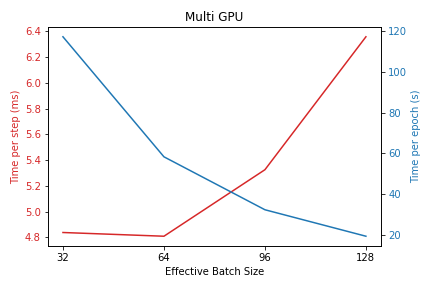
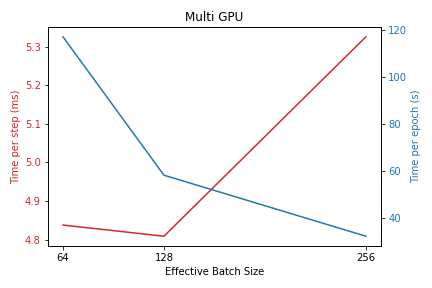
Corrected graph generation scripts for training performance

diff --git a/stock_predict/performance_testing/training/make_train_perf_plots.py b/stock_predict/performance_testing/training/make_train_perf_plots.py
@@ -21,11 +21,11 @@ plt.figure()
 plt.plot(n_nodes, speedup, label='Actual speedup')
 plt.plot(n_nodes, n_nodes, label='Theoretical speedup', linestyle='--')
 plt.title('Speedup with increasing nodes')
-plt.ylabel('speedup')
+plt.ylabel('Speedup')
 plt.xticks(n_nodes)
-plt.xlabel('number of nodes')
+plt.xlabel('Number of Nodes')
 plt.legend()
-plt.savefig('multi_node_speedup.png')
+plt.savefig('speedup_multi_node.png')
 
 
 # Plot 2: Multi-GPU speedup
@@ -39,15 +39,52 @@ speedup = [1, np.mean(multi_node['1']['time_per_epoch'])/ np.mean(multi_gpu['bs_
 plt.figure()
 plt.plot(n_gpus, speedup, label='Actual speedup')
 plt.plot(n_gpus, n_gpus, label='Theoretical speedup', linestyle='--')
-plt.title('Speedup with increasing GPUs in a single node')
+plt.title('Speedup with Increasing GPUs in a Single Node')
 plt.ylabel('Speedup')
 plt.xticks(n_gpus)
 plt.xlabel('Number of GPUs')
 plt.legend()
-plt.savefig('multi_gpu_speedup.png')
+plt.savefig('speedup_multi_gpu.png')
+
+# Plot 3: Batch size (multi node)
+
+with open('multi_node.txt') as json_file:
+    multi_node = json.load(json_file)
+
+steps_per_epoch = [24226, 12113, 6056, 3028]
+batch_sizes = [32, 64, 96, 128]
+mean_time_per_epoch = []
+
+for k, nodes_dict in multi_node.items():
+    mean_time_per_epoch.append(np.mean(nodes_dict['time_per_epoch'])*1000)
+    
+time_per_step = np.array(mean_time_per_epoch)/np.array(steps_per_epoch)
 
 
-# Plot 3: Batch size (single node)
+fig, ax1 = plt.subplots()
+color = 'tab:red'
+
+ax1.plot(batch_sizes, time_per_step, label='', color=color)
+ax1.set_ylabel('Time per step (ms)', color=color)
+ax1.tick_params(axis='y', labelcolor=color)
+#ax1.set_ylim(ymin=0)
+ax1.set_xticks(batch_sizes)
+ax1.set_xlabel('Effective Batch Size')
+
+ax1.set_title('Multi Node')
+
+ax2 = ax1.twinx()
+color = 'tab:blue'
+ax2.plot(batch_sizes, np.array(mean_time_per_epoch)/1000, label='')
+ax2.set_ylabel('Time per epoch (s)', color=color)
+#ax2.set_ylim(ymin=0)
+ax2.tick_params(axis='y', labelcolor=color)
+
+fig.tight_layout()
+fig.savefig('time_vs_batchsize_multi_node.png')
+
+
+# Plot 4: Batch size (single node)
 
 with open('single_node.txt') as json_file:
     single_node = json.load(json_file)
@@ -68,55 +105,21 @@ color = 'tab:red'
 ax1.plot(batch_sizes, time_per_step, label='', color=color)
 ax1.set_ylabel('Time per step (ms)', color=color)
 ax1.tick_params(axis='y', labelcolor=color)
+#ax1.set_ylim(ymin=0)
 ax1.set_xticks(batch_sizes)
 ax1.set_xlabel('Effective Batch Size')
 
-ax1.set_title('Single Node')
+ax1.set_title('Single GPU')
 
 ax2 = ax1.twinx()
 color = 'tab:blue'
 ax2.plot(batch_sizes, np.array(mean_time_per_epoch)/1000, label='')
 ax2.set_ylabel('Time per epoch (s)', color=color)
+#ax2.set_ylim(ymin=0)
 ax2.tick_params(axis='y', labelcolor=color)
 
 fig.tight_layout()
-fig.savefig('time_vs_batchsize_single_node.png')
-
-
-# Plot 4: Batch size (multi node)
-
-with open('multi_node.txt') as json_file:
-    multi_node = json.load(json_file)
-
-steps_per_epoch = [24226, 12113, 6056, 3028]
-batch_sizes = [32, 64, 96, 128]
-mean_time_per_epoch = []
-
-for k, bs_dict in multi_node.items():
-    mean_time_per_epoch.append(np.mean(bs_dict['time_per_epoch'])*1000)
-    
-time_per_step = np.array(mean_time_per_epoch)/np.array(steps_per_epoch)
-
-
-fig, ax1 = plt.subplots()
-color = 'tab:red'
-
-ax1.plot(batch_sizes, time_per_step, label='', color=color)
-ax1.set_ylabel('Time per step (ms)', color=color)
-ax1.tick_params(axis='y', labelcolor=color)
-ax1.set_xticks(batch_sizes)
-ax1.set_xlabel('Effective Batch Size')
-
-ax1.set_title('Multi Node')
-
-ax2 = ax1.twinx()
-color = 'tab:blue'
-ax2.plot(batch_sizes, np.array(mean_time_per_epoch)/1000, label='')
-ax2.set_ylabel('Time per epoch (s)', color=color)
-ax2.tick_params(axis='y', labelcolor=color)
-
-fig.tight_layout()
-fig.savefig('time_vs_batchsize_multi_node.png')
+fig.savefig('time_vs_batchsize_single_gpu.png')
 
 
 # Plot 5: Batch size (multi GPU)
@@ -125,7 +128,7 @@ with open('multi_gpu.txt') as json_file:
     multi_gpu = json.load(json_file)
 
 steps_per_epoch = [24226, 12113, 6056, 3028]
-batch_sizes = [32, 64, 96, 128]
+batch_sizes_multi_gpu = [64, 128, 256, 512]
 mean_time_per_epoch = []
 
 for k, bs_dict in multi_gpu.items():
@@ -137,20 +140,97 @@ time_per_step = np.array(mean_time_per_epoch)/np.array(steps_per_epoch)
 fig, ax1 = plt.subplots()
 color = 'tab:red'
 
-ax1.plot(batch_sizes, time_per_step, label='', color=color)
+ax1.plot(batch_sizes_multi_gpu[:3], time_per_step[:3], label='', color=color)
 ax1.set_title('')
 ax1.set_ylabel('Time per step (ms)', color=color)
 ax1.tick_params(axis='y', labelcolor=color)
-ax1.set_xticks(batch_sizes)
+#ax1.set_ylim(ymin=0)
+ax1.set_xticks(batch_sizes_multi_gpu[:3])
 ax1.set_xlabel('Effective Batch Size')
 
 ax1.set_title('Multi GPU')
 
 ax2 = ax1.twinx()
 color = 'tab:blue'
-ax2.plot(batch_sizes, np.array(mean_time_per_epoch)/1000, label='')
+ax2.plot(batch_sizes_multi_gpu[:3], (np.array(mean_time_per_epoch)/1000)[:3], label='')
 ax2.set_ylabel('Time per epoch (s)', color=color)
+#ax2.set_ylim(ymin=0)
 ax2.tick_params(axis='y', labelcolor=color)
 
 fig.tight_layout()
 fig.savefig('time_vs_batchsize_multi_gpu.png')
+
+
+# Plot 6: Testing accuracy (multi node & multi GPU)
+
+with open('multi_gpu.txt') as json_file:
+    multi_gpu = json.load(json_file)
+
+with open('multi_node.txt') as json_file:
+    multi_node = json.load(json_file)
+
+
+batch_sizes_multi_gpu = [64, 128, 256, 512]
+batch_sizes_multi_node = [32, 64, 96, 128]
+test_loss_multi_gpu = []
+test_loss_multi_node = []
+
+for k, bs_dict in multi_gpu.items():
+    test_loss_multi_gpu.append(bs_dict['test_loss'])
+
+for k, node_dict in multi_node.items():
+    test_loss_multi_node.append(node_dict['test_loss'])
+    
+   
+print(batch_sizes_multi_node[1:])
+print(np.sqrt(test_loss_multi_node)[1:])
+print(batch_sizes_multi_gpu[:2])
+print(np.sqrt(test_loss_multi_gpu)[:2])
+
+
+plt.figure()
+plt.plot(batch_sizes_multi_gpu[:2], np.sqrt(test_loss_multi_gpu)[:2], label='Multi GPU')
+plt.plot(batch_sizes_multi_node[1:], np.sqrt(test_loss_multi_node)[1:], label='Multi Node')
+plt.title('Testing Loss for Multi Node and Multi GPU')
+plt.ylabel('Test Loss (RMSE)')
+plt.ylim(ymin=0)
+plt.xticks(batch_sizes_multi_node[1:])
+plt.xlabel('Effective Batch Size')
+plt.legend()
+plt.savefig('test_loss_multi_node_multi_gpu.png')
+
+
+# Plot 7: Speedup with batch size (single & multi GPU)
+
+with open('multi_gpu.txt') as json_file:
+    multi_gpu = json.load(json_file)
+
+with open('multi_node.txt') as json_file:
+    single_node = json.load(json_file)
+
+batch_sizes_multi_gpu = [64, 128, 256, 512]
+batch_sizes_multi_node = [32, 64, 96, 128]
+total_time_multi_gpu = []
+total_time_multi_node = []
+
+for k, bs_dict in multi_gpu.items():
+    total_time_multi_gpu.append(np.sum(bs_dict['time_per_epoch']))
+
+for k, bs_dict in multi_node.items():
+    total_time_multi_node.append(np.sum(bs_dict['time_per_epoch']))
+
+speedup_multi_gpu = [total_time_multi_gpu[0]/x for x in total_time_multi_gpu]
+speedup_multi_node = [total_time_multi_node[1]/x for x in total_time_multi_node]
+    
+print(total_time_multi_gpu)
+print(speedup_multi_node)
+
+plt.figure()
+plt.plot(batch_sizes_multi_gpu[:2], speedup_multi_gpu[:2], label='Multi GPU')
+plt.plot(batch_sizes_multi_node[1:], speedup_multi_node[1:], label='Multi Node')
+plt.title('Speedup with Increasing Effective Batch Sizes')
+plt.ylabel('Speedup')
+plt.xlabel('Effective Batch Size')
+plt.xticks(batch_sizes_multi_node[1:])
+plt.legend()
+plt.savefig('speedup_multi_node_multi_gpu.png')
